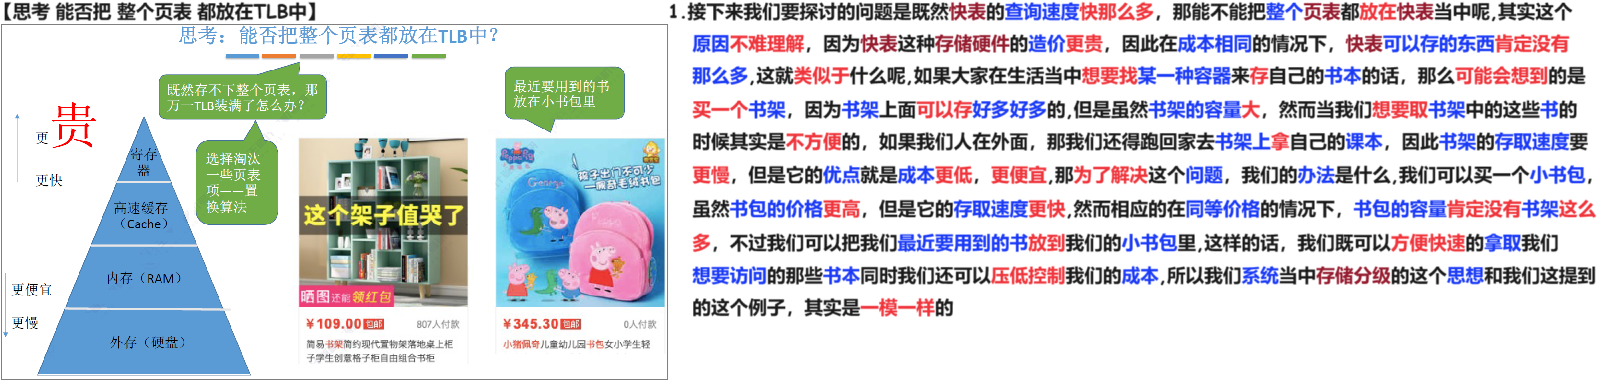
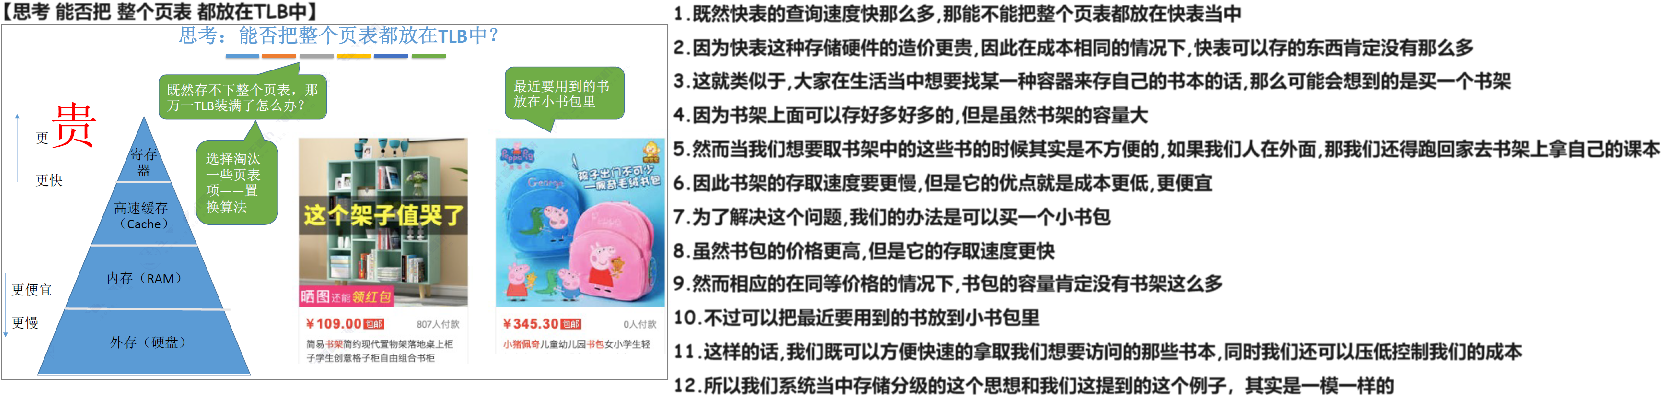
240627

diff --git a/01 初试/01 OS/02 24 25 王道/01 基础/03 内存管理/01 内存管理 概念/09 具有快表的地址变换机构 240627/02 消化/02 Doc.md b/01 初试/01 OS/02 24 25 王道/01 基础/03 内存管理/01 内存管理 概念/09 具有快表的地址变换机构 240627/02 消化/02 Doc.md
@@ -16,7 +16,7 @@
 
 # 03 思考 能否把 整个页表 都放在TLB中
 
-<img src="https://cvp.oss-cn-shanghai.aliyuncs.com/picgo/202405141836820.png" alt="image-20240514183622661" style="zoom:50%;" />
+<img src="https://cvp.oss-cn-shanghai.aliyuncs.com/picgo/202406271440663.png" alt="image-20240627144056499" style="zoom:50%;" />
 
 
 
